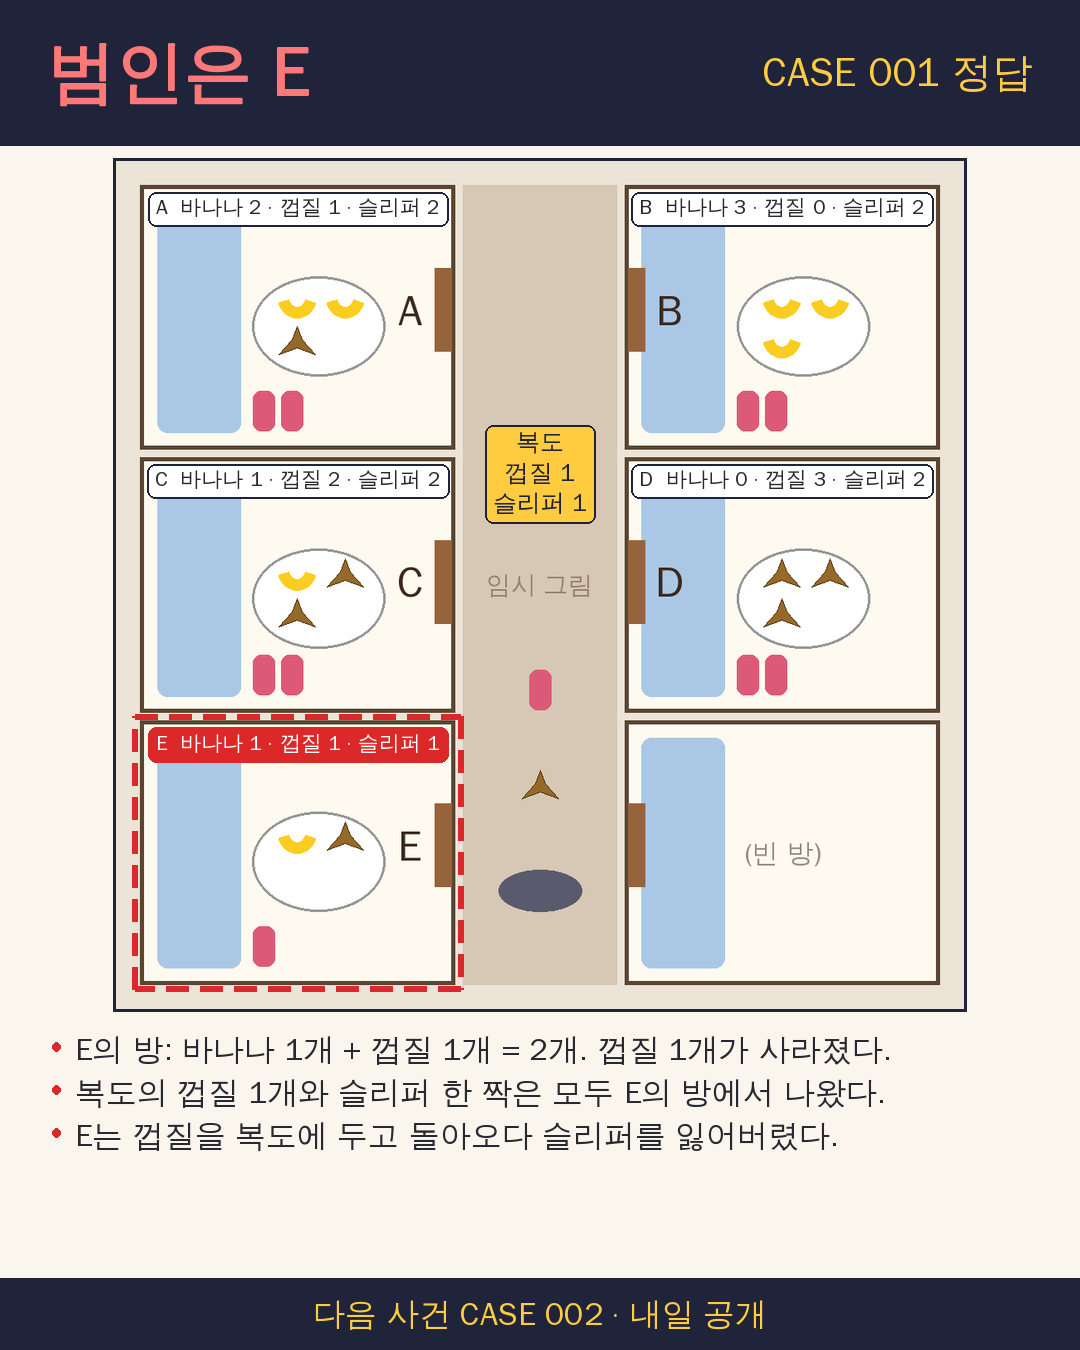
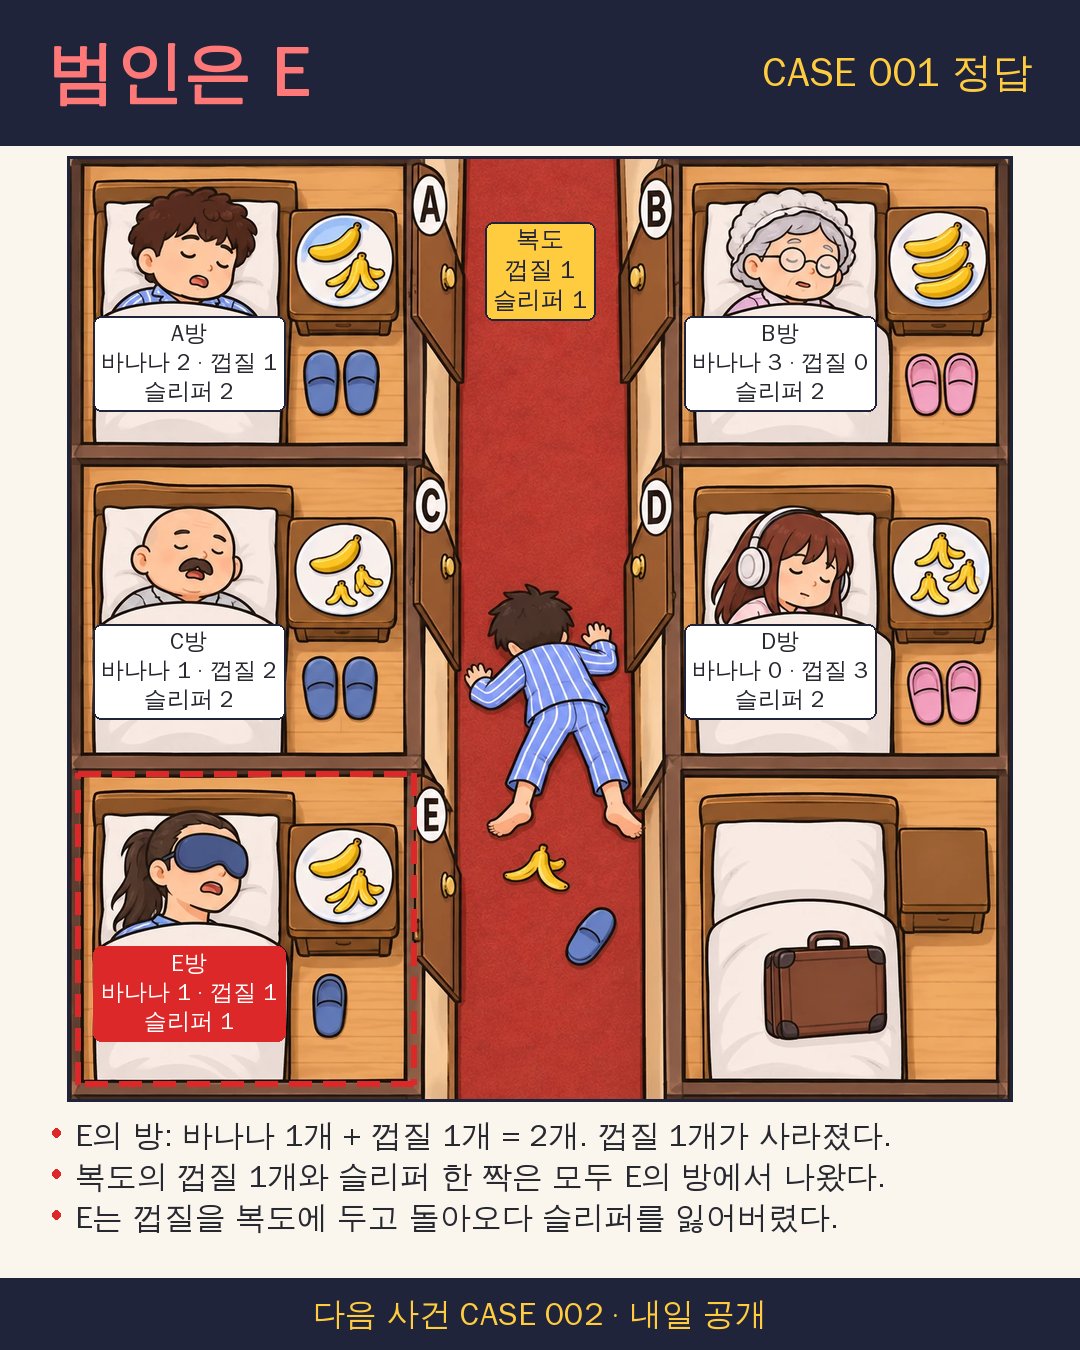
사건 001 GPT 그림 기준으로 라벨 좌표 보정, 껍질 구분 프롬프트 추가
- ROOM_BOXES/CORRIDOR_BOX를 실제 그림 실측값으로 수정
- 방 라벨을 이불 위 여러 줄로 옮겨 접시·슬리퍼를 가리지 않게 함
- 정답 카드 그림 확대, 해설 글자 크기 자동 조절
- 껍질을 갈색·축 늘어진 모양으로 그리도록 프롬프트 규칙 추가

Claude-Session: https://claude.ai/code/session_01Qb6j2jz36gMBeDYd4tNc2m

diff --git a/tools/compose.py b/tools/compose.py
@@ -12,13 +12,15 @@ from tools.common import INPUT, POSITIONS, VICTIM_POS, props
 
 # ---------------------------------------------------------------- 조정용 상수
 W, H = 1080, 1350
-ROOM_BOXES = {  # (x0, y0, x1, y1) 비율
-    "L0": (0.03, 0.03, 0.40, 0.34), "R0": (0.60, 0.03, 0.97, 0.34),
-    "L1": (0.03, 0.35, 0.40, 0.65), "R1": (0.60, 0.35, 0.97, 0.65),
-    "L2": (0.03, 0.66, 0.40, 0.97), "R2": (0.60, 0.66, 0.97, 0.97),
+ROOM_BOXES = {  # (x0, y0, x1, y1) 비율 — 사건 001 GPT 그림(1254px) 실측 기준
+    "L0": (0.015, 0.010, 0.360, 0.302), "R0": (0.642, 0.010, 0.990, 0.302),
+    "L1": (0.015, 0.329, 0.360, 0.632), "R1": (0.642, 0.329, 0.990, 0.632),
+    "L2": (0.015, 0.659, 0.360, 0.978), "R2": (0.642, 0.659, 0.990, 0.978),
 }
-CORRIDOR_BOX = (0.41, 0.03, 0.59, 0.97)
-CORRIDOR_LABEL_Y = 0.30  # 복도 라벨 세로 위치(비율)
+CORRIDOR_BOX = (0.415, 0.010, 0.585, 0.978)
+# 방 안에서 라벨을 놓을 영역 (방 기준 비율). 접시(우상단)·슬리퍼(우하단)를 가리지 않도록 이불 위.
+LABEL_REGION = (0.03, 0.52, 0.62, 0.98)
+CORRIDOR_LABEL_Y = 0.06  # 복도 라벨 세로 위치(비율, 빈 카펫 위)
 
 C_BG = (250, 246, 238)
 C_BAR = (32, 36, 58)
@@ -28,7 +30,7 @@ C_TEXT = (40, 40, 48)
 C_SUB = (110, 110, 120)
 
 PUZZLE_IMG_BOX = (30, 165, 1050, 1045)
-ANSWER_IMG_BOX = (30, 160, 1050, 1010)
+ANSWER_IMG_BOX = (60, 158, 1020, 1100)
 
 # ---------------------------------------------------------------- 폰트
 FONT_CANDIDATES = [
@@ -200,7 +202,7 @@ def placeholder_image(case: dict, size=1024) -> Image.Image:
                    font=F(52), fill=(60, 40, 30), anchor="mm")
             p = props(s)
             # 접시 (침대와 문 글자 사이)
-            px0, py0, px1, py1 = x0 + 135, y0 + 110, x0 + 295, y0 + 230
+            px0, py0, px1, py1 = x0 + 125, y0 + 100, x0 + 275, y0 + 215
             d.ellipse([px0, py0, px1, py1], fill="white", outline=(150, 150, 150), width=3)
             items = ["b"] * p["bananas"] + ["p"] * p["peels"]
             for i, it in enumerate(items):
@@ -239,14 +241,14 @@ def load_art(case: dict):
 
 
 # ---------------------------------------------------------------- 카드
-def room_label_text(case: dict, s: dict) -> str:
+def room_label_lines(case: dict, s: dict) -> list:
     p = props(s)
-    parts = []
+    lines = [f"{s['id']}방"]
     if "banana_start" in case.get("world", {}):
-        parts += [f"바나나 {p['bananas']}", f"껍질 {p['peels']}"]
+        lines.append(f"바나나 {p['bananas']} · 껍질 {p['peels']}")
     if "slipper_pair" in case.get("world", {}):
-        parts.append(f"슬리퍼 {p['slippers']}")
-    return " · ".join(parts)
+        lines.append(f"슬리퍼 {p['slippers']}")
+    return lines
 
 
 def corridor_label_lines(case: dict) -> list:
@@ -288,8 +290,16 @@ def make_answer_card(case: dict, art: Image.Image, F: Fonts) -> Image.Image:
         is_c = s["id"] == case["culprit"]
         if is_c:
             dashed_rect(d, (x0 - 5, y0 - 5, x1 + 5, y1 + 5), C_RED)
-        label(d, F, (x0 + x1) / 2, y0 + 6, [f"{s['id']}  {room_label_text(case, s)}"],
-              max_w=(x1 - x0) - 12, size=24,
+        rw, rh = x1 - x0, y1 - y0
+        lx0, ly0, lx1, ly1 = (x0 + rw * LABEL_REGION[0], y0 + rh * LABEL_REGION[1],
+                              x0 + rw * LABEL_REGION[2], y0 + rh * LABEL_REGION[3])
+        lines = room_label_lines(case, s)
+        f_size = 30
+        while f_size > 14 and (f_size + 6) * len(lines) + 8 > (ly1 - ly0):
+            f_size -= 1
+        box_h = (f_size + 6) * len(lines) + 8
+        label(d, F, (lx0 + lx1) / 2, (ly0 + ly1 - box_h) / 2, lines,
+              max_w=lx1 - lx0, size=f_size,
               fg=(255, 255, 255) if is_c else C_TEXT,
               bg=C_RED if is_c else (255, 255, 255),
               border=C_RED if is_c else C_BAR)
@@ -301,7 +311,15 @@ def make_answer_card(case: dict, art: Image.Image, F: Fonts) -> Image.Image:
         label(d, F, (cx0 + cx1) / 2, cy, clines, max_w=(cx1 - cx0) - 6, size=24,
               fg=C_BAR, bg=C_ACCENT, border=C_BAR)
     # 해설
-    draw_text_block(d, case["explanation"], F(31), 48, 1030, W - 96, C_TEXT, gap=12, bullet=True)
+    top, bottom = area[1] + area[3] + 16, H - 72 - 12
+    size = 31
+    while size > 20:
+        f = F(size)
+        n = sum(len(wrap(t, f, W - 96 - int(size * 0.9))) for t in case["explanation"])
+        if n * (size + 10) <= bottom - top:
+            break
+        size -= 1
+    draw_text_block(d, case["explanation"], F(size), 48, top, W - 96, C_TEXT, gap=10, bullet=True)
     # 다음 사건 예고
     try:
         nxt = f"{int(case['id']) + 1:03d}"

diff --git a/tools/make_prompt.py b/tools/make_prompt.py
@@ -12,11 +12,15 @@ LAYOUT = (
     "and a spot beside the bed for slippers. Each room's door opens to the corridor."
 )
 
+PEEL_RULE = ("Whole bananas are bright yellow and plump. Empty banana peels are brown with dark spots, flat and limp "
+             "with the skin split open into 3 strips, so a peel can never be mistaken for a whole banana.")
+
 RULES = [
     "The ONLY text allowed in the image is the single capital letter (A, B, C, D, E) on each room's door. No other words, numbers or signs.",
     "Objects on each plate must be large, clearly separated, and must NOT overlap, so they can be counted on a phone screen.",
     "Draw exactly the counts listed above. Do not add extra bananas, peels or slippers anywhere.",
     "Keep the camera angle, grid layout and room sizes exactly as described.",
+    PEEL_RULE,
 ]
 
 
@@ -72,5 +76,5 @@ def build_fix_prompt(case: dict, room_ids: list) -> str:
         f"Only change room(s) {', '.join(room_ids)} so that they match these exact counts:",
     ]
     lines += [room_line(case, s) for s in targets]
-    lines += ["", "Objects on the plate must be large and must not overlap. Do not add any text."]
+    lines += ["", "Objects on the plate must be large and must not overlap. Do not add any text.", PEEL_RULE]
     return "\n".join(lines) + "\n"
